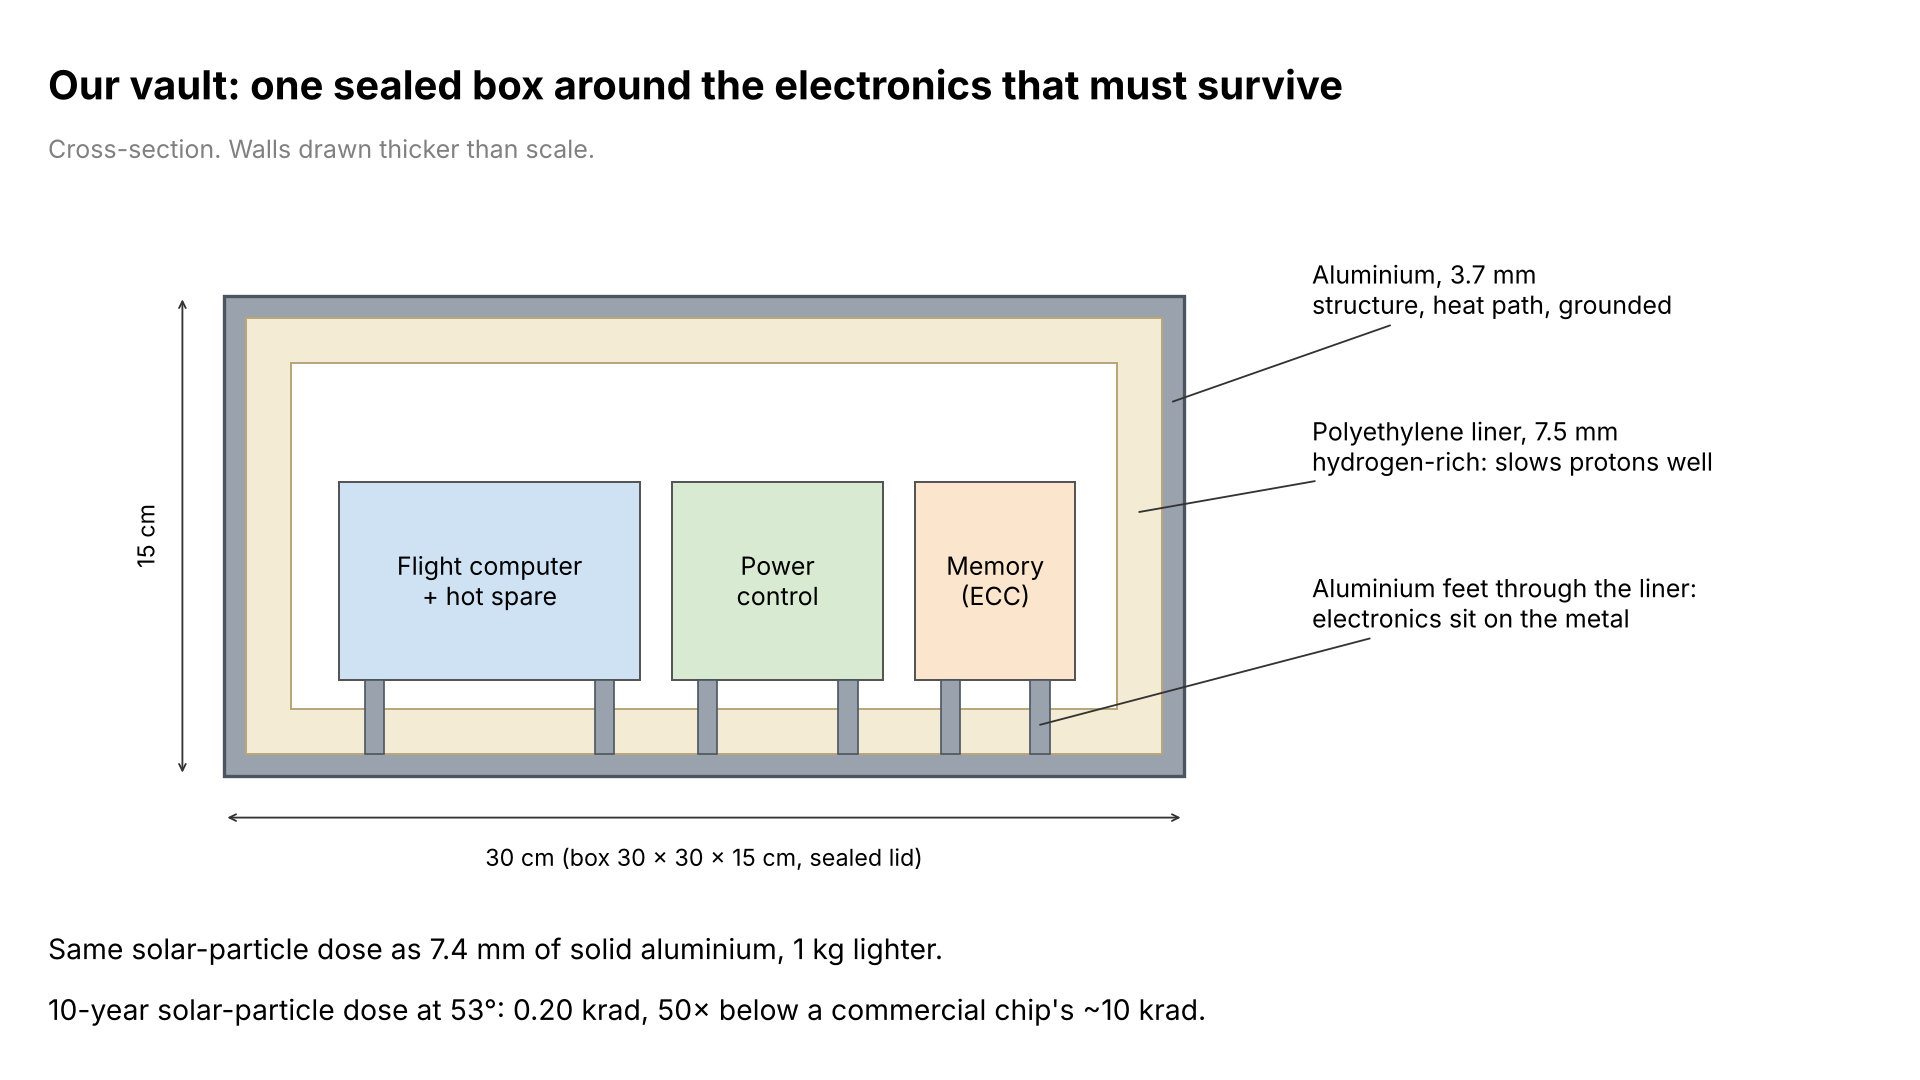
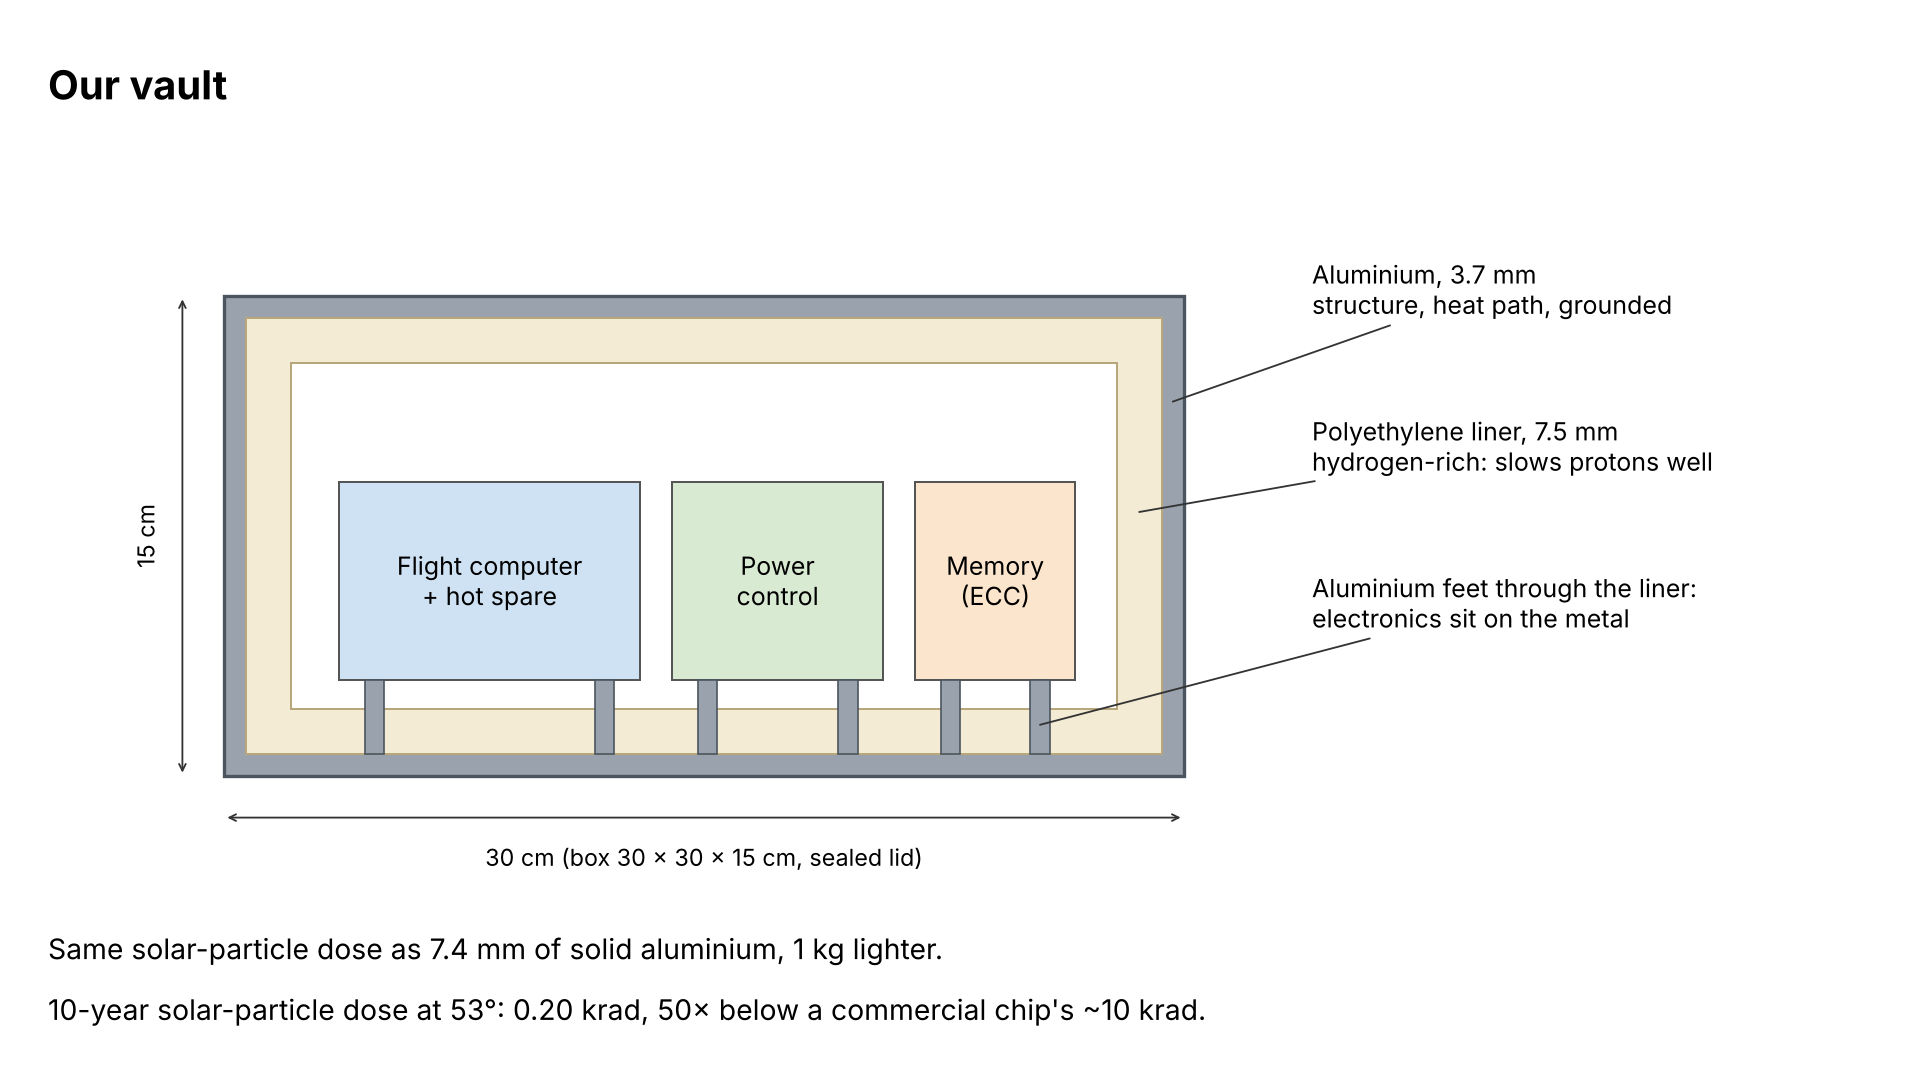
Vault diagram: title only "Our vault"
Claude-Session: https://claude.ai/code/session_01QqiiXvinrJ56urYhvNQFPm

Changed region(s): [[0.125, 0.0611, 0.7188, 0.0917], [0.0312, 0.1222, 0.3125, 0.1528]]

diff --git a/scripts/vault_diagram.py b/scripts/vault_diagram.py
@@ -46,8 +46,7 @@ ax.text(W / 2, -2.1, "30 cm (box 30 × 30 × 15 cm, sealed lid)", ha="center", v
 ax.annotate("", xy=(-1.3, 0), xytext=(-1.3, H), arrowprops=dict(arrowstyle="<->", color="#333", lw=1.1))
 ax.text(-2.0, H / 2, "15 cm", ha="right", va="center", fontsize=14, rotation=90)
 
-ax.text(-5.5, 21.6, "Our vault: one sealed box around the electronics that must survive", fontsize=24, fontweight="bold", va="center")
-ax.text(-5.5, 19.6, "Cross-section. Walls drawn thicker than scale.", fontsize=15, color="gray", va="center")
+ax.text(-5.5, 21.6, "Our vault", fontsize=24, fontweight="bold", va="center")
 ax.text(-5.5, -5.4, f"Same solar-particle dose as {2 / 2.70 * 10:.1f} mm of solid aluminium, {saved:.0f} kg lighter.", fontsize=17, va="center")
 ax.text(-5.5, -7.3, f"10-year solar-particle dose at 53°: {dose53:.2f} krad, {tol / dose53:.0f}× below a commercial chip's ~{tol:.0f} krad.",
         fontsize=17, va="center")
